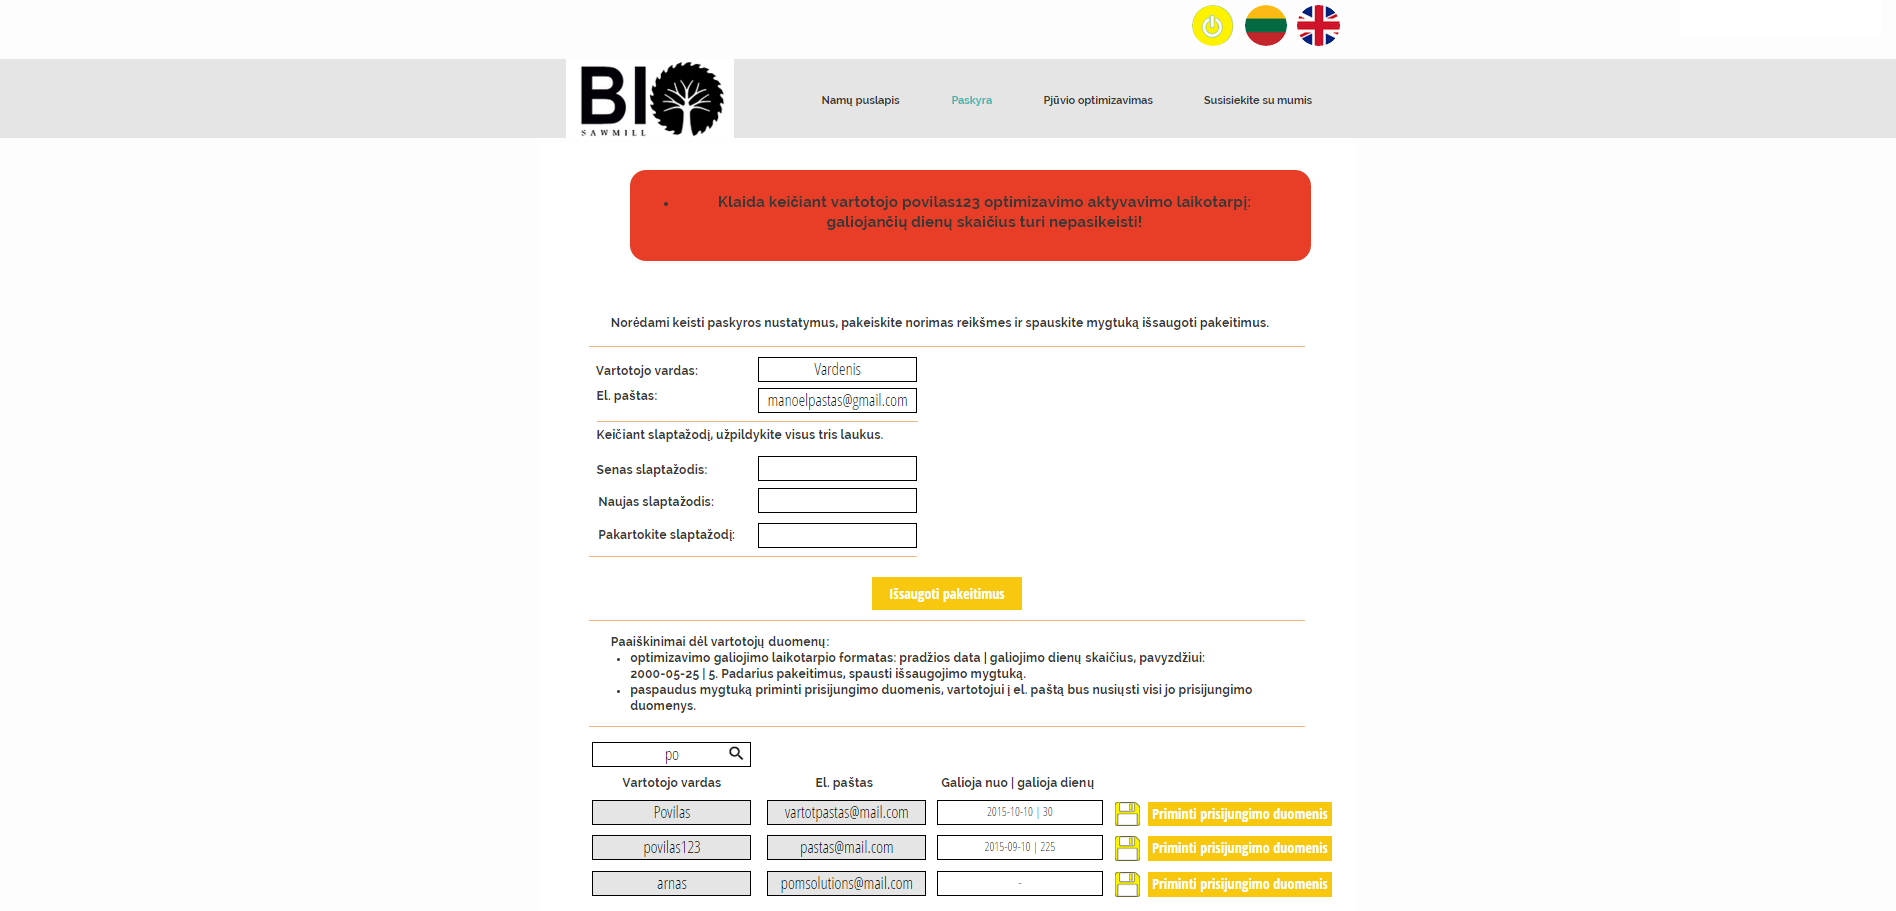
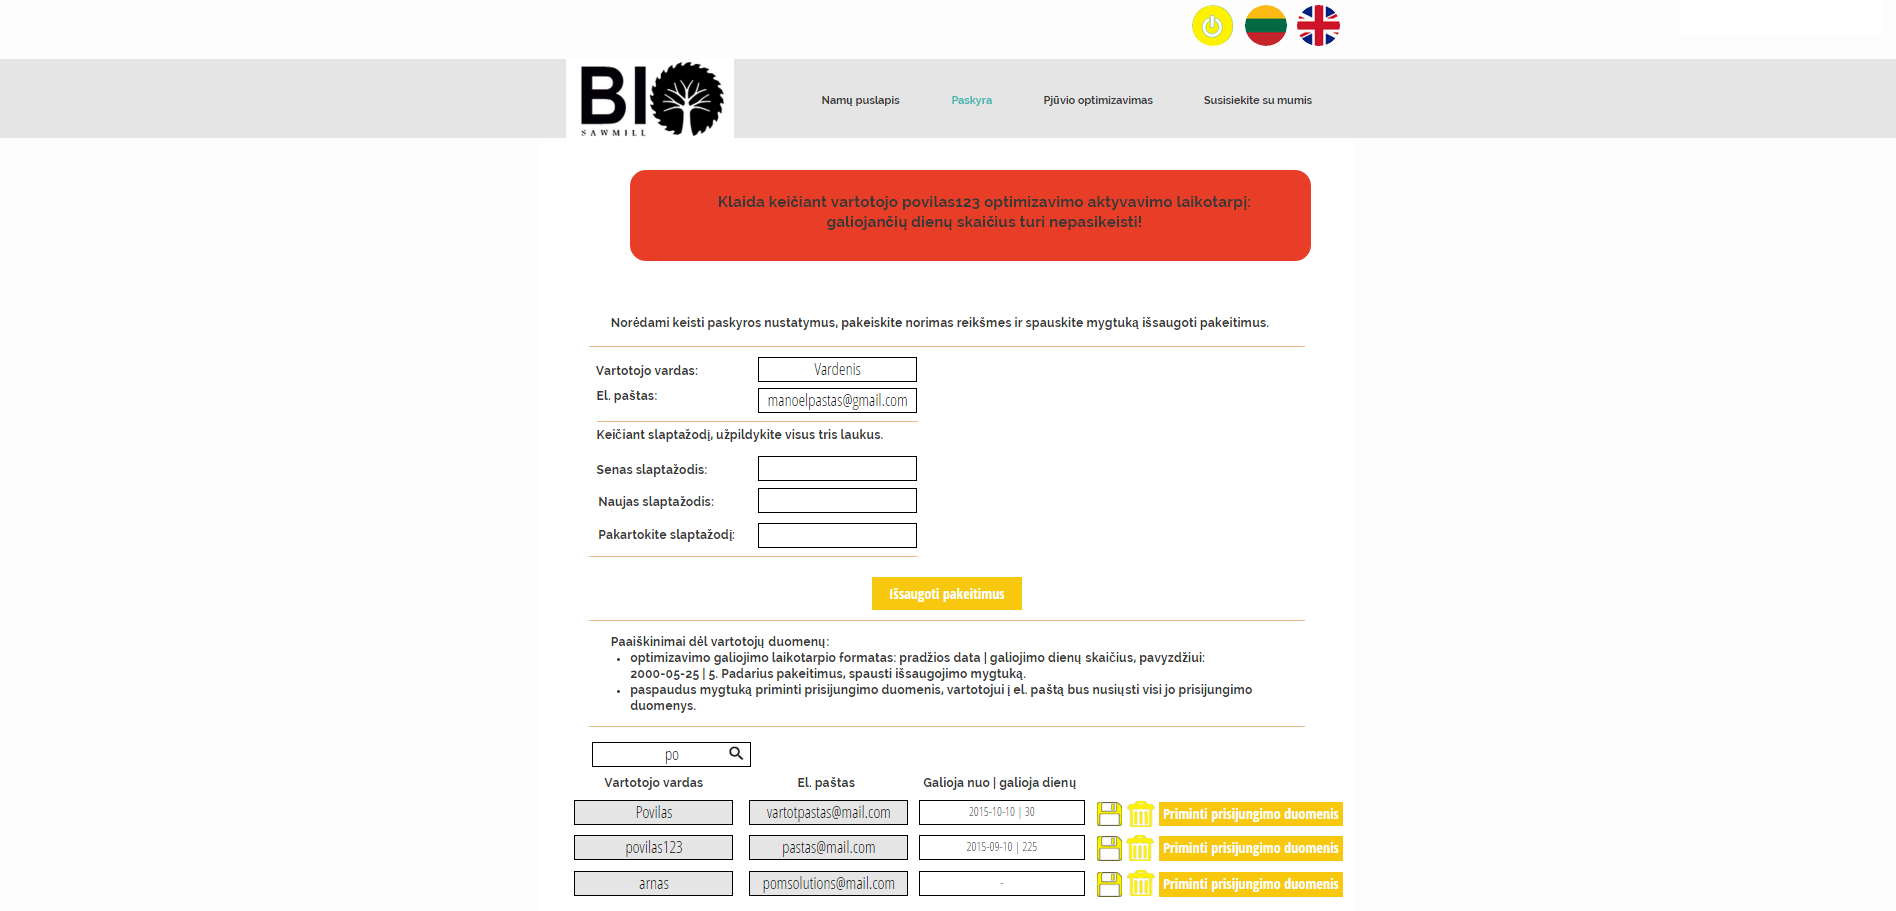
Some changes for interfaces

Changed region(s): [[0.2801, 0.8299, 0.7157, 0.9835]]

diff --git a/3lab/Programų sistemos projektas.tex b/3lab/Programų sistemos projektas.tex
@@ -350,11 +350,19 @@ Atsijungimo mygtukas matomas tik prisijungus. O jį paspaudus, vartotojas nukrei
 
 \clearpage
 
-\floatfoot{15 interfeisas. Vartotojo paskyros puslapis - administratorius (su klaida)}
+\floatfoot{15 interfeisas. Vartotojo paskyros puslapis - administratorius (su klaida). "Floppy disc" išsaugo pakeitimus padarytus konkrečiai vartotojo paskyrai, o šiukšlinės ikona leidžia ištrinti vartotojo paskyrą prieš tai nukrepiant vartotoją į 15.1 dialogą.}
 \begin{figure}[!tph]
 \hspace{-2cm}
 \centering
 \includegraphics[scale=0.45]{interfeisai/paskyrosPuslapisAdministratoriusSuKlaida}
+\label{fig:verticalcell}
+\end{figure}
+
+\floatfoot{15.1 interfeisas. Vartotojo paskyros puslapis - administratorius nori ištrinti vartotoją.}
+\begin{figure}[!tph]
+\hspace{-2cm}
+\centering
+\includegraphics[scale=0.45]{interfeisai/vartotojoPaskyraVartotojoIstrynimoPatvirtinimas}
 \label{fig:verticalcell}
 \end{figure}
 
@@ -444,7 +452,7 @@ Atsijungimo mygtukas matomas tik prisijungus. O jį paspaudus, vartotojas nukrei
 \clearpage
 
 
-\floatfoot{25 interfeisas. Optimizavimo puslapis - išsaugoto plano istorijoje peržiūra (iš arčiau). "X" mygtukas gražina vartotoją į 23 dialogą, o parsisiuntimo - atidaro standartinį operacinės sistemos failo išsaugojimo langą.}
+\floatfoot{25 interfeisas. Optimizavimo puslapis - išsaugoto plano istorijoje peržiūra (iš arčiau). "X" mygtukas gražina vartotoją į 23 dialogą, o parsisiuntimo - atidaro standartinį operacinės sistemos failo išsaugojimo langą. Lange matomas "x8" nurodo kokiam kiekiui planlių reikės taikyti vaizduojamą pjųvio planą. Plano apačioje esančios dvi ikonos (geltona ir juoda) leidžia perjungti pjūvio plano vaizdą likusiam panelių kiekui. Vartotojo atsisiųstame pjūvio ruošinyje (pagal šį pavyzdį) vartotojas matytų šious du skirtingus planus einančius vienas po kito.} 
 \begin{figure}[!tph]
 \hspace{-2cm}
 \centering
